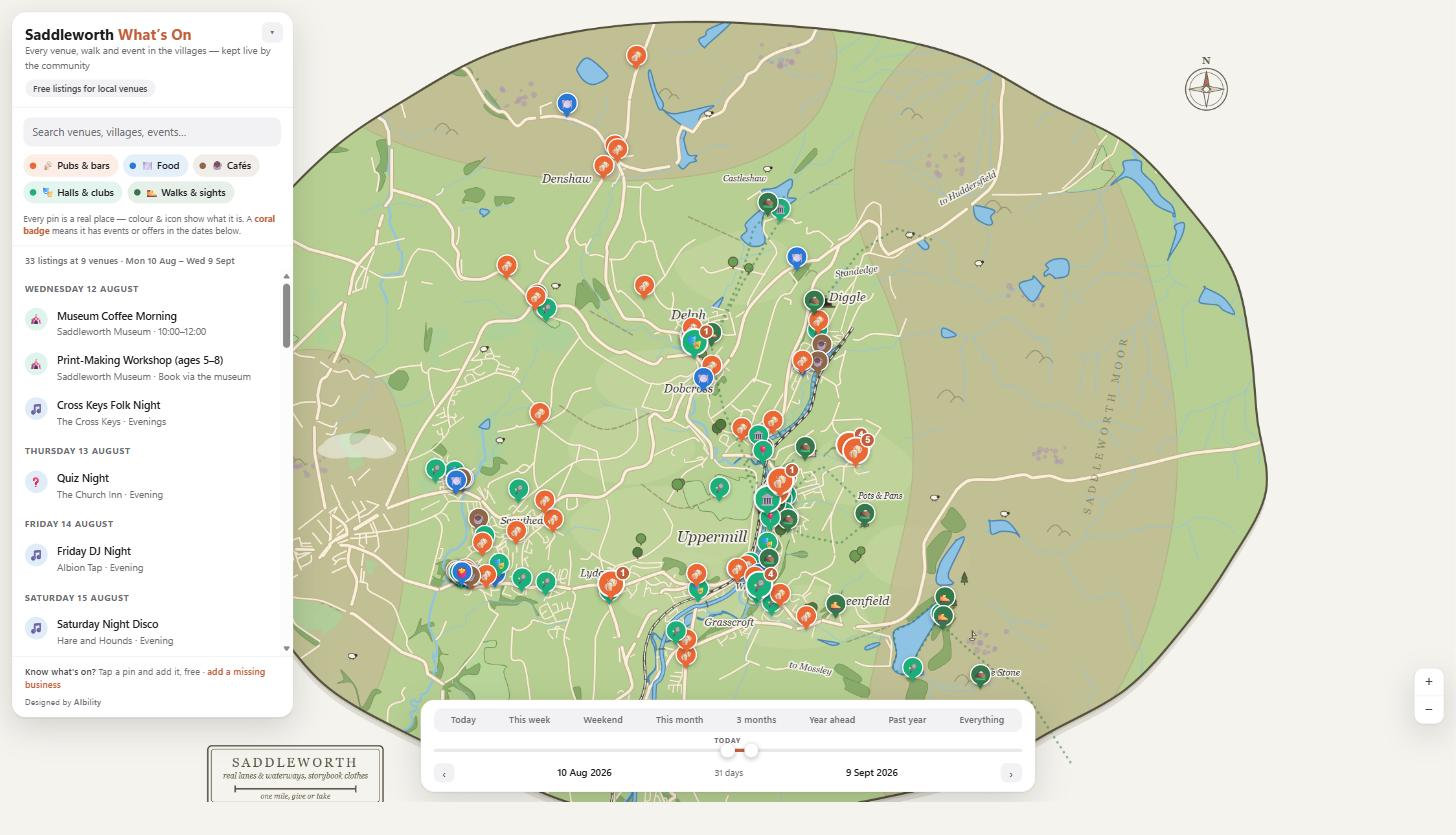
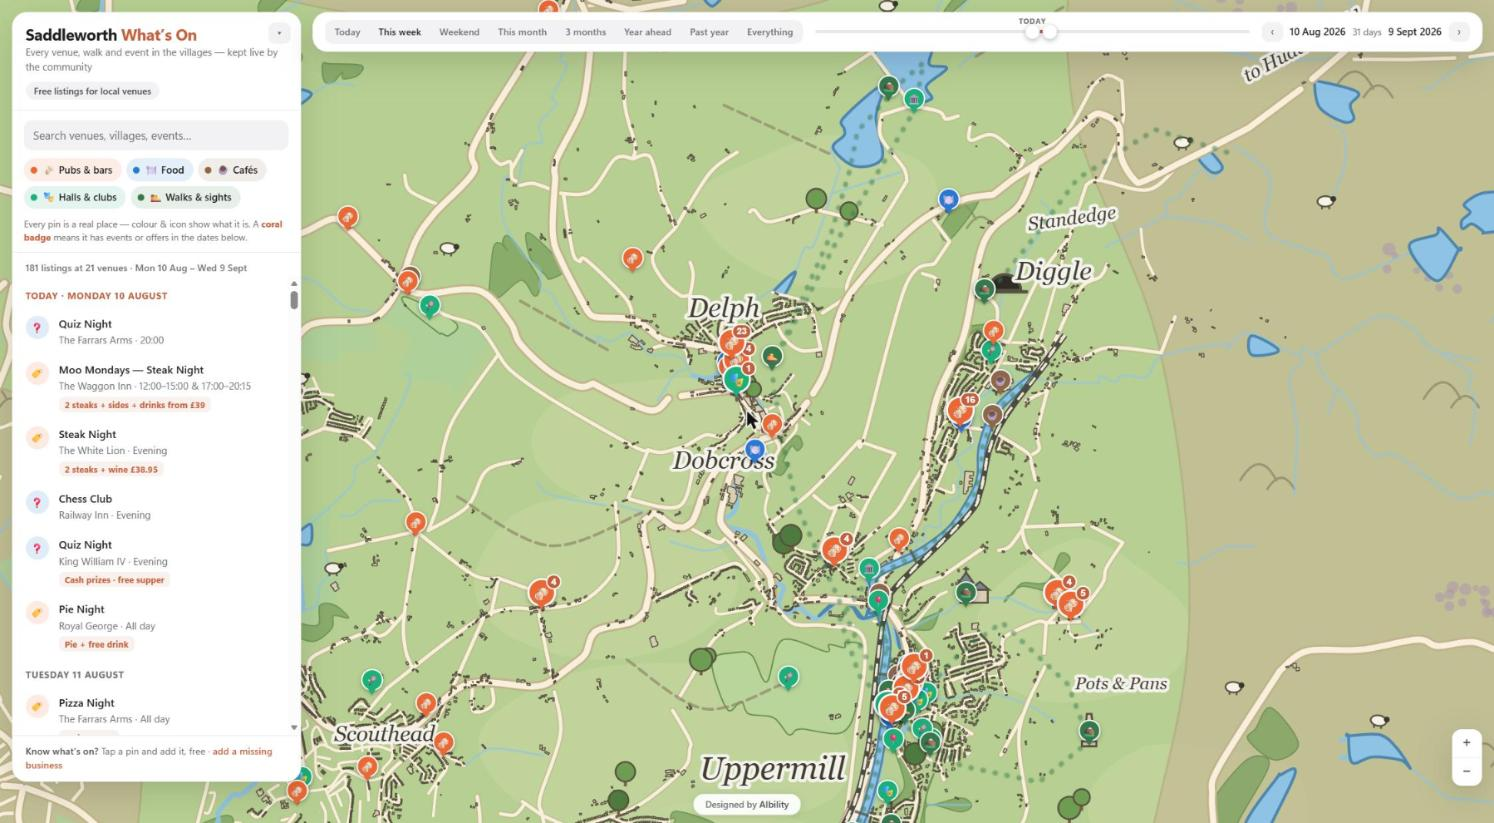
Timebar to the top as one compact row; Designed-by-AIbility footer pill

diff --git a/index.html b/index.html
@@ -87,7 +87,7 @@
 
   /* ---- left: title, filters, event list ---- */
   #side { top: 14px; left: 14px; width: min(348px, calc(100vw - 28px));
-          max-height: calc(100dvh - 118px); display: flex; flex-direction: column; z-index: 20; }
+          max-height: calc(100dvh - 64px); display: flex; flex-direction: column; z-index: 20; }
   #side .head { padding: 15px 16px 12px; border-bottom: 1px solid var(--line); position: relative;
                 cursor: pointer; }
   #side .mini { position: absolute; top: 12px; right: 12px; width: 26px; height: 26px;
@@ -161,8 +161,8 @@
            letter-spacing: 0.04em; margin: 4px 0 0 4px; }
 
   /* ---- right: venue card ---- */
-  #venue { top: 14px; right: 14px; width: min(330px, calc(100vw - 28px));
-           max-height: calc(100dvh - 118px); overflow-y: auto; overscroll-behavior: contain;
+  #venue { top: 78px; right: 14px; width: min(330px, calc(100vw - 28px));
+           max-height: calc(100dvh - 130px); overflow-y: auto; overscroll-behavior: contain;
            z-index: 25; display: none; }
   #venue.open { display: block; }
   #venue .photo { height: 148px; border-radius: calc(var(--r-lg) - 1px) calc(var(--r-lg) - 1px) 0 0;
@@ -222,20 +222,20 @@
   .rate-row .stars button.on { color: #f5a623; }
   .rate-row .stars button:hover { transform: scale(1.18); color: #f5a623; }
 
-  /* ---- bottom: the time window ---- */
-  #timebar { left: 50%; transform: translateX(-50%); bottom: 12px;
-             width: min(760px, calc(100vw - 24px)); z-index: 30; padding: 10px 16px 11px; }
-  #presets { display: flex; gap: 2px; flex-wrap: nowrap; overflow-x: auto; scrollbar-width: none;
-             background: var(--surface-2); border-radius: var(--r-sm); padding: 2px;
-             margin-bottom: 10px; }
+  /* ---- top: the time window (one compact row on desktop) ---- */
+  #timebar { top: 14px; left: 376px; right: 14px; z-index: 30;
+             display: flex; align-items: center; gap: 14px; padding: 9px 14px; }
+  #presets { display: flex; gap: 2px; flex: 0 1 auto; flex-wrap: nowrap; overflow-x: auto;
+             scrollbar-width: none; background: var(--surface-2);
+             border-radius: var(--r-sm); padding: 2px; }
   #presets::-webkit-scrollbar { display: none; }
-  #presets button { border: 0; background: none; border-radius: 8px; flex: 1 0 auto;
+  #presets button { border: 0; background: none; border-radius: 8px; flex: 0 0 auto;
                     font: inherit; font-size: 11.5px; font-weight: 600; padding: 4px 10px;
                     cursor: pointer; color: var(--muted); white-space: nowrap; }
   #presets button:hover { color: var(--ink); }
   #presets button.on { background: var(--surface); color: var(--ink);
                        box-shadow: 0 1px 4px rgba(0,0,0,0.12); }
-  .slider { position: relative; height: 26px; }
+  .slider { position: relative; height: 26px; flex: 1 1 200px; min-width: 150px; }
   .slider .track { position: absolute; left: 0; right: 0; top: 11px; height: 4px;
                    border-radius: 2px; background: var(--surface-3); }
   .slider .fill { position: absolute; top: 11px; height: 4px; background: var(--accent);
@@ -259,9 +259,9 @@
   .slider input[type="range"]:focus-visible { outline: none; }
   .slider input[type="range"]:focus-visible::-webkit-slider-thumb { outline: 2px solid var(--accent);
       outline-offset: 2px; }
-  #dates { display: flex; justify-content: space-between; align-items: center; margin-top: 3px; }
-  #dates .d { font-size: 12px; font-weight: 600; color: var(--ink); }
-  #dates .mid { color: var(--muted); font-size: 11px; }
+  #dates { display: flex; align-items: center; gap: 8px; flex: 0 0 auto; }
+  #dates .d { font-size: 12px; font-weight: 600; color: var(--ink); white-space: nowrap; }
+  #dates .mid { color: var(--muted); font-size: 11px; white-space: nowrap; }
   #dates button { border: 0; background: var(--surface-2); border-radius: 8px;
                   font-size: 12px; width: 26px; height: 24px; cursor: pointer;
                   color: var(--ink-soft); }
@@ -346,8 +346,17 @@
   body.placing #stage { cursor: crosshair; }
   body.placing #side, body.placing #venue, body.placing #timebar { display: none; }
 
+  /* ---- footer credit ---- */
+  #credit { position: fixed; bottom: 10px; left: 50%; transform: translateX(-50%); z-index: 15;
+            background: rgba(255, 255, 255, 0.92); border: 1px solid var(--hairline);
+            box-shadow: var(--shadow-sm); border-radius: 999px; padding: 4px 14px;
+            font-size: 11px; font-weight: 500; color: var(--muted); white-space: nowrap; }
+  #credit a { color: var(--ink-soft); font-weight: 600; text-decoration: none; }
+  #credit a:hover { color: var(--accent); }
+  body.placing #credit { display: none; }
+
   /* ---- zoom buttons ---- */
-  #zoomctl { position: fixed; right: 14px; bottom: 96px; z-index: 15; display: flex;
+  #zoomctl { position: fixed; right: 14px; bottom: 44px; z-index: 15; display: flex;
              flex-direction: column; border-radius: var(--r-md); overflow: hidden;
              box-shadow: var(--shadow); border: 1px solid var(--hairline); }
   #zoomctl button { width: 36px; height: 34px; border: 0; background: var(--surface);
@@ -363,12 +372,24 @@
                  cursor: pointer; }
   #side-toggle b { color: var(--accent); }
 
+  @media (max-width: 900px) {
+    /* small screens: the time window returns to a stacked bar at the bottom
+       (thumb-reachable) and the credit hides */
+    #timebar { top: auto; bottom: 8px; left: 12px; right: 12px; display: block;
+               padding: 10px 14px 11px; }
+    #presets { margin-bottom: 10px; }
+    .slider { min-width: 0; }
+    #dates { justify-content: space-between; margin-top: 3px; }
+    #credit { display: none; }
+    #zoomctl { bottom: 120px; }
+    #venue { top: 14px; max-height: calc(100dvh - 155px); }
+    #side { max-height: calc(100dvh - 155px); }
+  }
   @media (max-width: 760px) {
     #side-toggle { display: block; }
     #side { display: none; }
-    body.side-open #side { display: flex; top: 56px; max-height: calc(100dvh - 175px); }
-    #venue { top: 56px; max-height: calc(100dvh - 175px); }
-    #timebar { bottom: 8px; }
+    body.side-open #side { display: flex; top: 56px; max-height: calc(100dvh - 200px); }
+    #venue { top: 56px; max-height: calc(100dvh - 200px); }
     #zoomctl { display: none; }
   }
 
@@ -414,7 +435,6 @@ offers venues publish themselves. It needs JavaScript to draw the map.</p></nosc
   <div class="foot">
     <b>Know what's on?</b> Tap a pin and add it, free ·
     <a href="#" id="add-biz">add a missing business</a>
-    <span class="credit">Designed by <a href="https://www.aibility.co.uk/" target="_blank" rel="noreferrer">AIbility</a></span>
   </div>
 </aside>
 
@@ -452,6 +472,8 @@ offers venues publish themselves. It needs JavaScript to draw the map.</p></nosc
   <button id="z-in" aria-label="Zoom in">+</button>
   <button id="z-out" aria-label="Zoom out">−</button>
 </div>
+
+<div id="credit">Designed by <a href="https://www.aibility.co.uk/" target="_blank" rel="noreferrer">AIbility</a></div>
 
 <script src="js/map-art.js"></script>
 <script src="js/app.js"></script>
